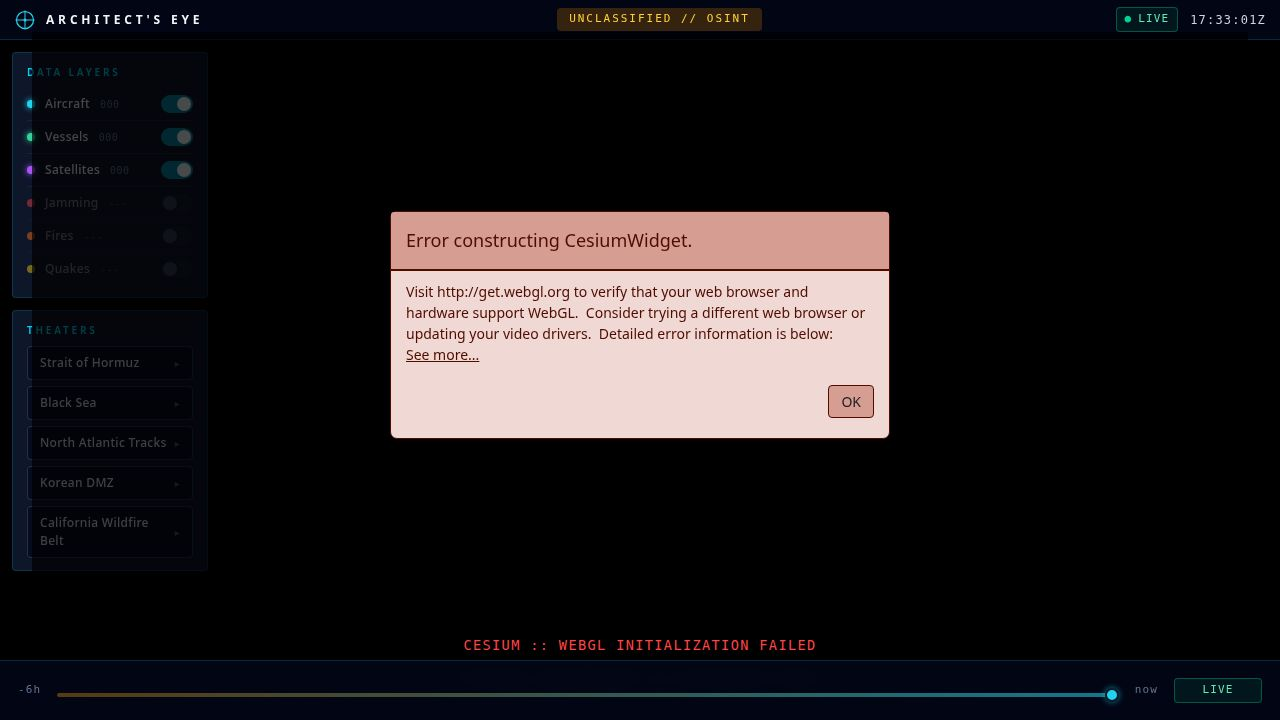
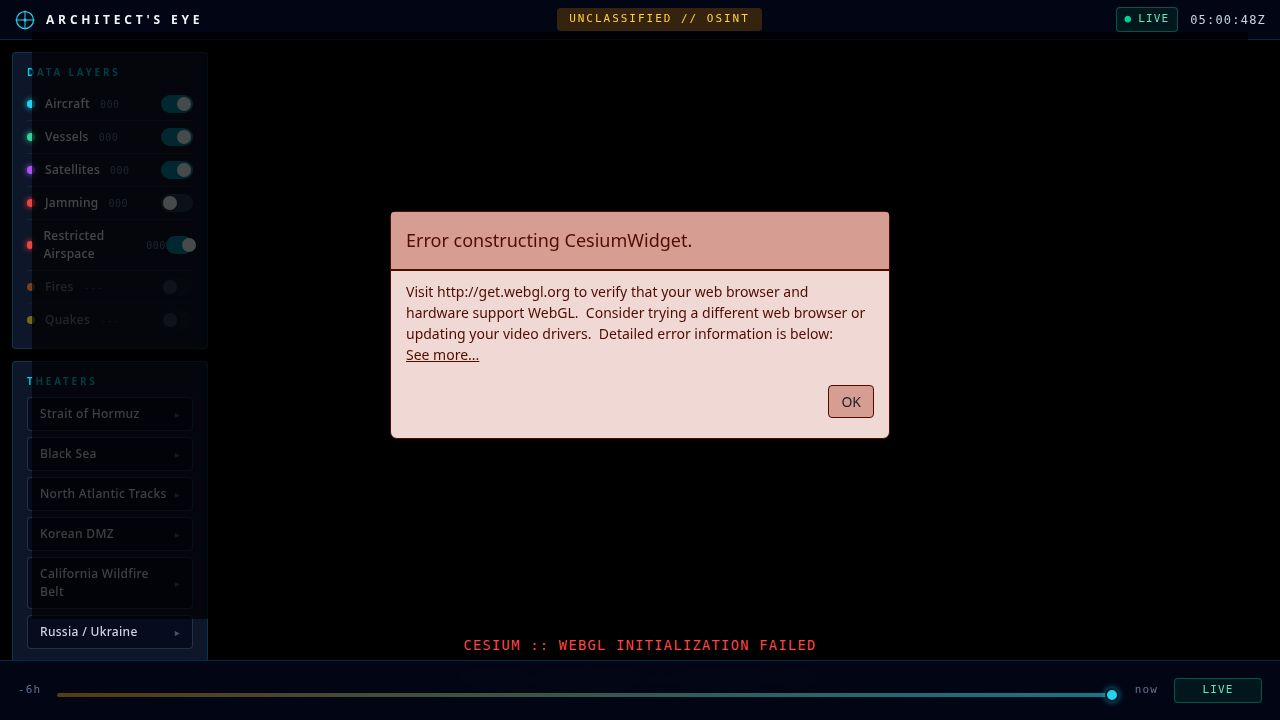
Add visual trails to track selected aircraft, vessels, and satellites
Implement trail rendering for selected aircraft, vessels, and satellites using Cesium's PathGraphics, with distinct visual properties and time durations for each entity type. For satellites, dynamically generate path data using SGP4 propagation.

Replit-Commit-Author: Agent
Replit-Commit-Session-Id: 271b35b5-e41b-4391-ba1b-3de22340e64c
Replit-Commit-Checkpoint-Type: full_checkpoint
Replit-Commit-Event-Id: 94c0e232-e3bf-4b76-9e03-9157f70948c6
Replit-Commit-Screenshot-Url: https://storage.googleapis.com/screenshot-production-us-central1/fbc3cfa2-d368-4926-8dd3-36ac24d619c8/271b35b5-e41b-4391-ba1b-3de22340e64c/SL931HH
Replit-Helium-Checkpoint-Created: true

diff --git a/artifacts/architects-eye/src/layers/SatelliteLayer.ts b/artifacts/architects-eye/src/layers/SatelliteLayer.ts
@@ -1,4 +1,5 @@
 import * as Cesium from "cesium";
+import * as satellite from "satellite.js";
 import { useStore } from "../store";
 import {
   parseTLE,
@@ -11,6 +12,58 @@ import {
 import SatelliteWorker from "../workers/sgp4.worker?worker";
 
 const TICK_INTERVAL_MS = 1000;
+const SAT_TRAIL_HALF_WINDOW_S = 1800; // 30 min on each side
+const SAT_TRAIL_STEP_S = 30;
+
+const SAT_TRAIL_MATERIAL = new Cesium.PolylineGlowMaterialProperty({
+  glowPower: 0.25,
+  color: Cesium.Color.fromCssColorString("#a855f7").withAlpha(0.7),
+  taperPower: 0.6,
+});
+
+function buildSatelliteTrail(meta: SatelliteMeta, nowMs: number):
+  | Cesium.SampledPositionProperty
+  | null {
+  let rec;
+  try {
+    rec = satellite.twoline2satrec(meta.line1, meta.line2);
+  } catch {
+    return null;
+  }
+  if (!rec || (rec as { error?: number }).error) return null;
+
+  const prop = new Cesium.SampledPositionProperty();
+  prop.setInterpolationOptions({
+    interpolationDegree: 2,
+    interpolationAlgorithm: Cesium.LagrangePolynomialApproximation,
+  });
+  prop.forwardExtrapolationType = Cesium.ExtrapolationType.NONE;
+  prop.backwardExtrapolationType = Cesium.ExtrapolationType.NONE;
+
+  const startMs = nowMs - SAT_TRAIL_HALF_WINDOW_S * 1000;
+  const endMs = nowMs + SAT_TRAIL_HALF_WINDOW_S * 1000;
+  let added = 0;
+  for (let t = startMs; t <= endMs; t += SAT_TRAIL_STEP_S * 1000) {
+    const date = new Date(t);
+    let pv;
+    try {
+      pv = satellite.propagate(rec, date);
+    } catch {
+      continue;
+    }
+    if (!pv || !pv.position || typeof pv.position === "boolean") continue;
+    const gmst = satellite.gstime(date);
+    const gd = satellite.eciToGeodetic(pv.position, gmst);
+    const cart = Cesium.Cartesian3.fromRadians(
+      gd.longitude,
+      gd.latitude,
+      gd.height * 1000,
+    );
+    prop.addSample(Cesium.JulianDate.fromDate(date), cart);
+    added++;
+  }
+  return added >= 2 ? prop : null;
+}
 
 interface PickIdPayload {
   layer: "satellites";
@@ -26,6 +79,9 @@ export class SatelliteLayer {
   private primitives: Cesium.PointPrimitive[] = [];
   private handler: Cesium.ScreenSpaceEventHandler | null = null;
   private unsubscribeStore: (() => void) | null = null;
+  private unsubscribeSelection: (() => void) | null = null;
+  private trailedNoradId: string | null = null;
+  private trailEntity: Cesium.Entity | null = null;
   private currentVisibility = true;
   private lastTickAt = 0;
   private pendingTick = false;
@@ -114,6 +170,12 @@ export class SatelliteLayer {
       this.worker?.postMessage({ type: "tick", time: date.getTime() });
     });
 
+    // Trail rendering: subscribe to selection changes
+    this.unsubscribeSelection = useStore.subscribe((state) => {
+      this.syncTrail(state.selectedEntity);
+    });
+    this.syncTrail(useStore.getState().selectedEntity);
+
     // Click handler — detects PointPrimitive picks
     this.handler = new Cesium.ScreenSpaceEventHandler(
       this.viewer.scene.canvas,
@@ -150,6 +212,15 @@ export class SatelliteLayer {
       this.unsubscribeStore();
       this.unsubscribeStore = null;
     }
+    if (this.unsubscribeSelection) {
+      this.unsubscribeSelection();
+      this.unsubscribeSelection = null;
+    }
+    if (this.trailEntity && !this.viewer.isDestroyed()) {
+      this.viewer.entities.remove(this.trailEntity);
+    }
+    this.trailEntity = null;
+    this.trailedNoradId = null;
     if (this.worker) {
       this.worker.terminate();
       this.worker = null;
@@ -162,6 +233,44 @@ export class SatelliteLayer {
     this.metas = [];
     this.tles = [];
     useStore.getState().setLayerCount("satellites", 0);
+  }
+
+  private syncTrail(
+    selected: ReturnType<typeof useStore.getState>["selectedEntity"],
+  ): void {
+    const newId =
+      selected && selected.type === "satellite" ? selected.id : null;
+    if (newId === this.trailedNoradId) return;
+
+    // Always remove the old temp entity first
+    if (this.trailEntity && !this.viewer.isDestroyed()) {
+      this.viewer.entities.remove(this.trailEntity);
+    }
+    this.trailEntity = null;
+    this.trailedNoradId = null;
+
+    if (!newId || !selected || selected.type !== "satellite") return;
+    const meta = selected.data;
+    const nowMs = Cesium.JulianDate.toDate(
+      this.viewer.clock.currentTime,
+    ).getTime();
+    const positionProp = buildSatelliteTrail(meta, nowMs);
+    if (!positionProp) return;
+
+    this.trailEntity = this.viewer.entities.add({
+      name: `sat-trail:${meta.noradId}`,
+      position: positionProp,
+      point: undefined,
+      billboard: undefined,
+      path: new Cesium.PathGraphics({
+        leadTime: SAT_TRAIL_HALF_WINDOW_S,
+        trailTime: SAT_TRAIL_HALF_WINDOW_S,
+        width: 1.5,
+        resolution: 30,
+        material: SAT_TRAIL_MATERIAL,
+      }),
+    });
+    this.trailedNoradId = newId;
   }
 
   private onWorkerMessage(e: MessageEvent): void {

diff --git a/artifacts/architects-eye/src/layers/AircraftLayer.ts b/artifacts/architects-eye/src/layers/AircraftLayer.ts
@@ -46,13 +46,34 @@ function predictPosition(
   return Cesium.Cartesian3.fromDegrees(lon + dLonDeg, lat + dLatDeg, altM);
 }
 
+const TRAIL_MATERIAL = new Cesium.PolylineGlowMaterialProperty({
+  glowPower: 0.25,
+  color: Cesium.Color.fromCssColorString("#22d3ee").withAlpha(0.85),
+  taperPower: 0.5,
+});
+
+function makeAircraftPath(): Cesium.PathGraphics {
+  return new Cesium.PathGraphics({
+    leadTime: 0,
+    trailTime: 600,
+    width: 2.5,
+    resolution: 2.0,
+    material: TRAIL_MATERIAL,
+  });
+}
+
 export class AircraftLayer {
   private viewer: Cesium.Viewer;
   private entries = new Map<string, EntityEntry>();
   private pollTimer: ReturnType<typeof setInterval> | null = null;
   private handler: Cesium.ScreenSpaceEventHandler | null = null;
   private unsubscribeStore: (() => void) | null = null;
+  private unsubscribeSelection: (() => void) | null = null;
   private currentVisibility = true;
+  // Hex of the aircraft *we* added a trail to last, so we can clean
+  // it up on the next selection change without disturbing other
+  // layers' selections.
+  private trailedHex: string | null = null;
 
   constructor(viewer: Cesium.Viewer) {
     this.viewer = viewer;
@@ -68,6 +89,12 @@ export class AircraftLayer {
         this.applyVisibility(next);
       }
     });
+
+    // Trail rendering: subscribe to selection changes
+    this.unsubscribeSelection = useStore.subscribe((state) => {
+      this.syncTrail(state.selectedEntity);
+    });
+    this.syncTrail(useStore.getState().selectedEntity);
 
     void this.poll();
     this.pollTimer = setInterval(() => void this.poll(), POLL_INTERVAL_MS);
@@ -119,6 +146,11 @@ export class AircraftLayer {
       this.unsubscribeStore();
       this.unsubscribeStore = null;
     }
+    if (this.unsubscribeSelection) {
+      this.unsubscribeSelection();
+      this.unsubscribeSelection = null;
+    }
+    this.trailedHex = null;
     for (const { entity } of this.entries.values()) {
       if (!this.viewer.isDestroyed()) {
         this.viewer.entities.remove(entity);
@@ -126,6 +158,30 @@ export class AircraftLayer {
     }
     this.entries.clear();
     useStore.getState().setLayerCount("aircraft", 0);
+  }
+
+  private syncTrail(
+    selected: ReturnType<typeof useStore.getState>["selectedEntity"],
+  ): void {
+    const newHex =
+      selected && selected.type === "aircraft" ? selected.id : null;
+    if (newHex === this.trailedHex) return;
+
+    // Clean up the old trail — only if WE put one there.
+    if (this.trailedHex) {
+      const prev = this.entries.get(this.trailedHex);
+      if (prev) prev.entity.path = undefined;
+    }
+
+    this.trailedHex = null;
+
+    if (newHex) {
+      const next = this.entries.get(newHex);
+      if (next) {
+        next.entity.path = makeAircraftPath();
+        this.trailedHex = newHex;
+      }
+    }
   }
 
   private applyVisibility(visible: boolean): void {

diff --git a/artifacts/architects-eye/src/layers/VesselLayer.ts b/artifacts/architects-eye/src/layers/VesselLayer.ts
@@ -59,6 +59,22 @@ function predictPosition(
   return Cesium.Cartesian3.fromDegrees(lon + dLonDeg, lat + dLatDeg, 0);
 }
 
+const VESSEL_TRAIL_MATERIAL = new Cesium.PolylineGlowMaterialProperty({
+  glowPower: 0.25,
+  color: Cesium.Color.fromCssColorString("#34d399").withAlpha(0.85),
+  taperPower: 0.5,
+});
+
+function makeVesselPath(): Cesium.PathGraphics {
+  return new Cesium.PathGraphics({
+    leadTime: 0,
+    trailTime: 1800,
+    width: 2,
+    resolution: 5.0,
+    material: VESSEL_TRAIL_MATERIAL,
+  });
+}
+
 export class VesselLayer {
   private viewer: Cesium.Viewer;
   private client: AISStreamClient;
@@ -66,8 +82,10 @@ export class VesselLayer {
   private staticByMmsi = new Map<number, VesselStatic>();
   private handler: Cesium.ScreenSpaceEventHandler | null = null;
   private unsubscribeStore: (() => void) | null = null;
+  private unsubscribeSelection: (() => void) | null = null;
   private currentVisibility = false;
   private pruneTimer: number | null = null;
+  private trailedMmsi: number | null = null;
 
   constructor(viewer: Cesium.Viewer, client: AISStreamClient) {
     this.viewer = viewer;
@@ -83,6 +101,11 @@ export class VesselLayer {
         for (const e of this.entries.values()) e.entity.show = next;
       }
     });
+
+    this.unsubscribeSelection = useStore.subscribe((state) => {
+      this.syncTrail(state.selectedEntity);
+    });
+    this.syncTrail(useStore.getState().selectedEntity);
 
     this.client.on({
       position: (p) => this.onPosition(p),
@@ -142,6 +165,11 @@ export class VesselLayer {
       this.unsubscribeStore();
       this.unsubscribeStore = null;
     }
+    if (this.unsubscribeSelection) {
+      this.unsubscribeSelection();
+      this.unsubscribeSelection = null;
+    }
+    this.trailedMmsi = null;
     if (!this.viewer.isDestroyed()) {
       for (const { entity } of this.entries.values()) {
         this.viewer.entities.remove(entity);
@@ -150,6 +178,31 @@ export class VesselLayer {
     this.entries.clear();
     this.staticByMmsi.clear();
     useStore.getState().setLayerCount("vessels", 0);
+  }
+
+  private syncTrail(
+    selected: ReturnType<typeof useStore.getState>["selectedEntity"],
+  ): void {
+    let newMmsi: number | null = null;
+    if (selected && selected.type === "vessel") {
+      const parsed = Number.parseInt(selected.id, 10);
+      if (Number.isFinite(parsed)) newMmsi = parsed;
+    }
+    if (newMmsi === this.trailedMmsi) return;
+
+    if (this.trailedMmsi != null) {
+      const prev = this.entries.get(this.trailedMmsi);
+      if (prev) prev.entity.path = undefined;
+    }
+    this.trailedMmsi = null;
+
+    if (newMmsi != null) {
+      const next = this.entries.get(newMmsi);
+      if (next) {
+        next.entity.path = makeVesselPath();
+        this.trailedMmsi = newMmsi;
+      }
+    }
   }
 
   private onPosition(p: VesselPosition): void {